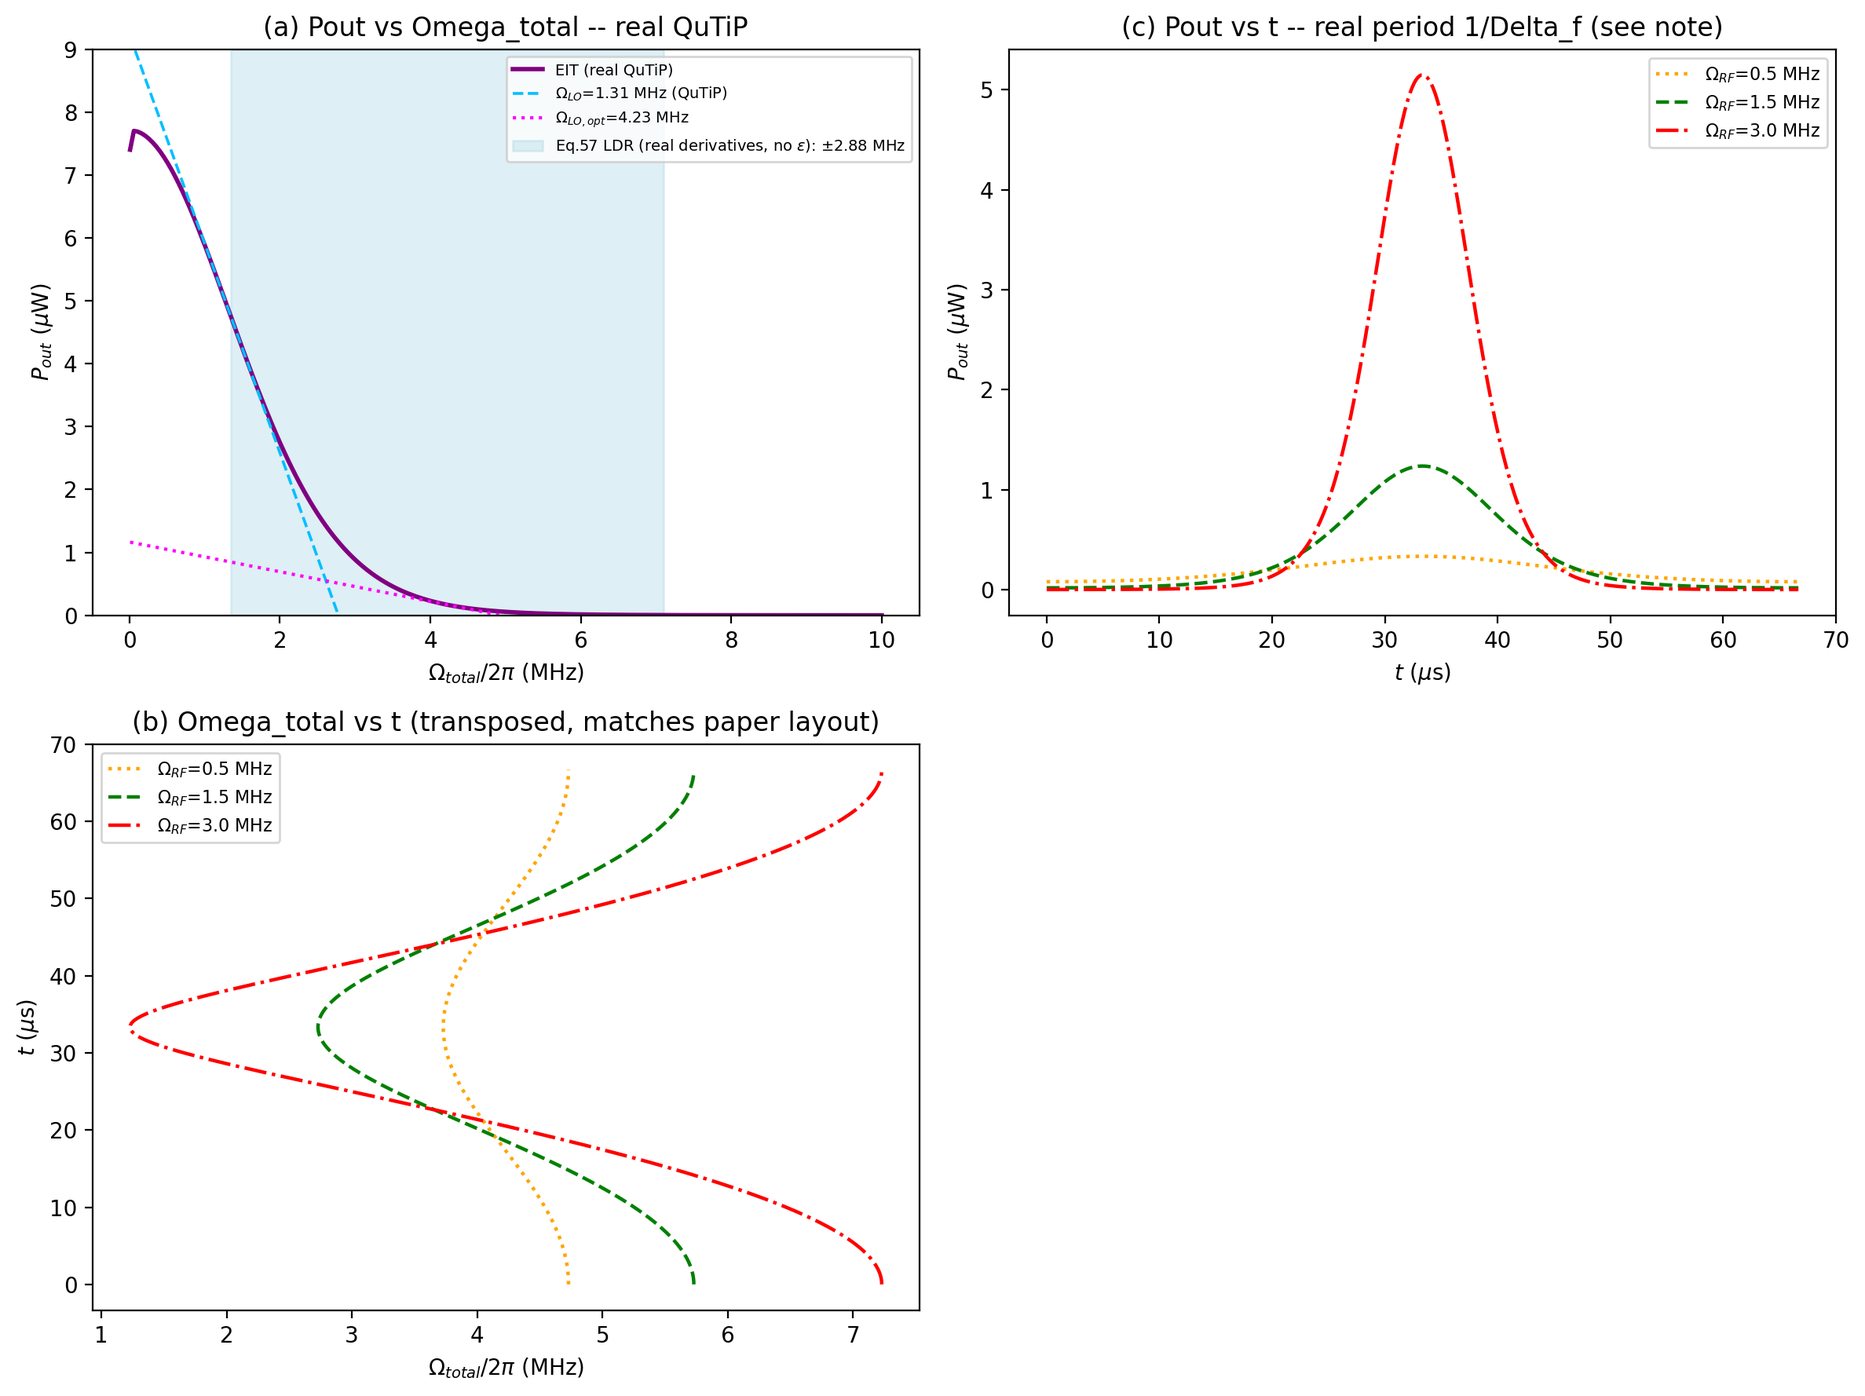
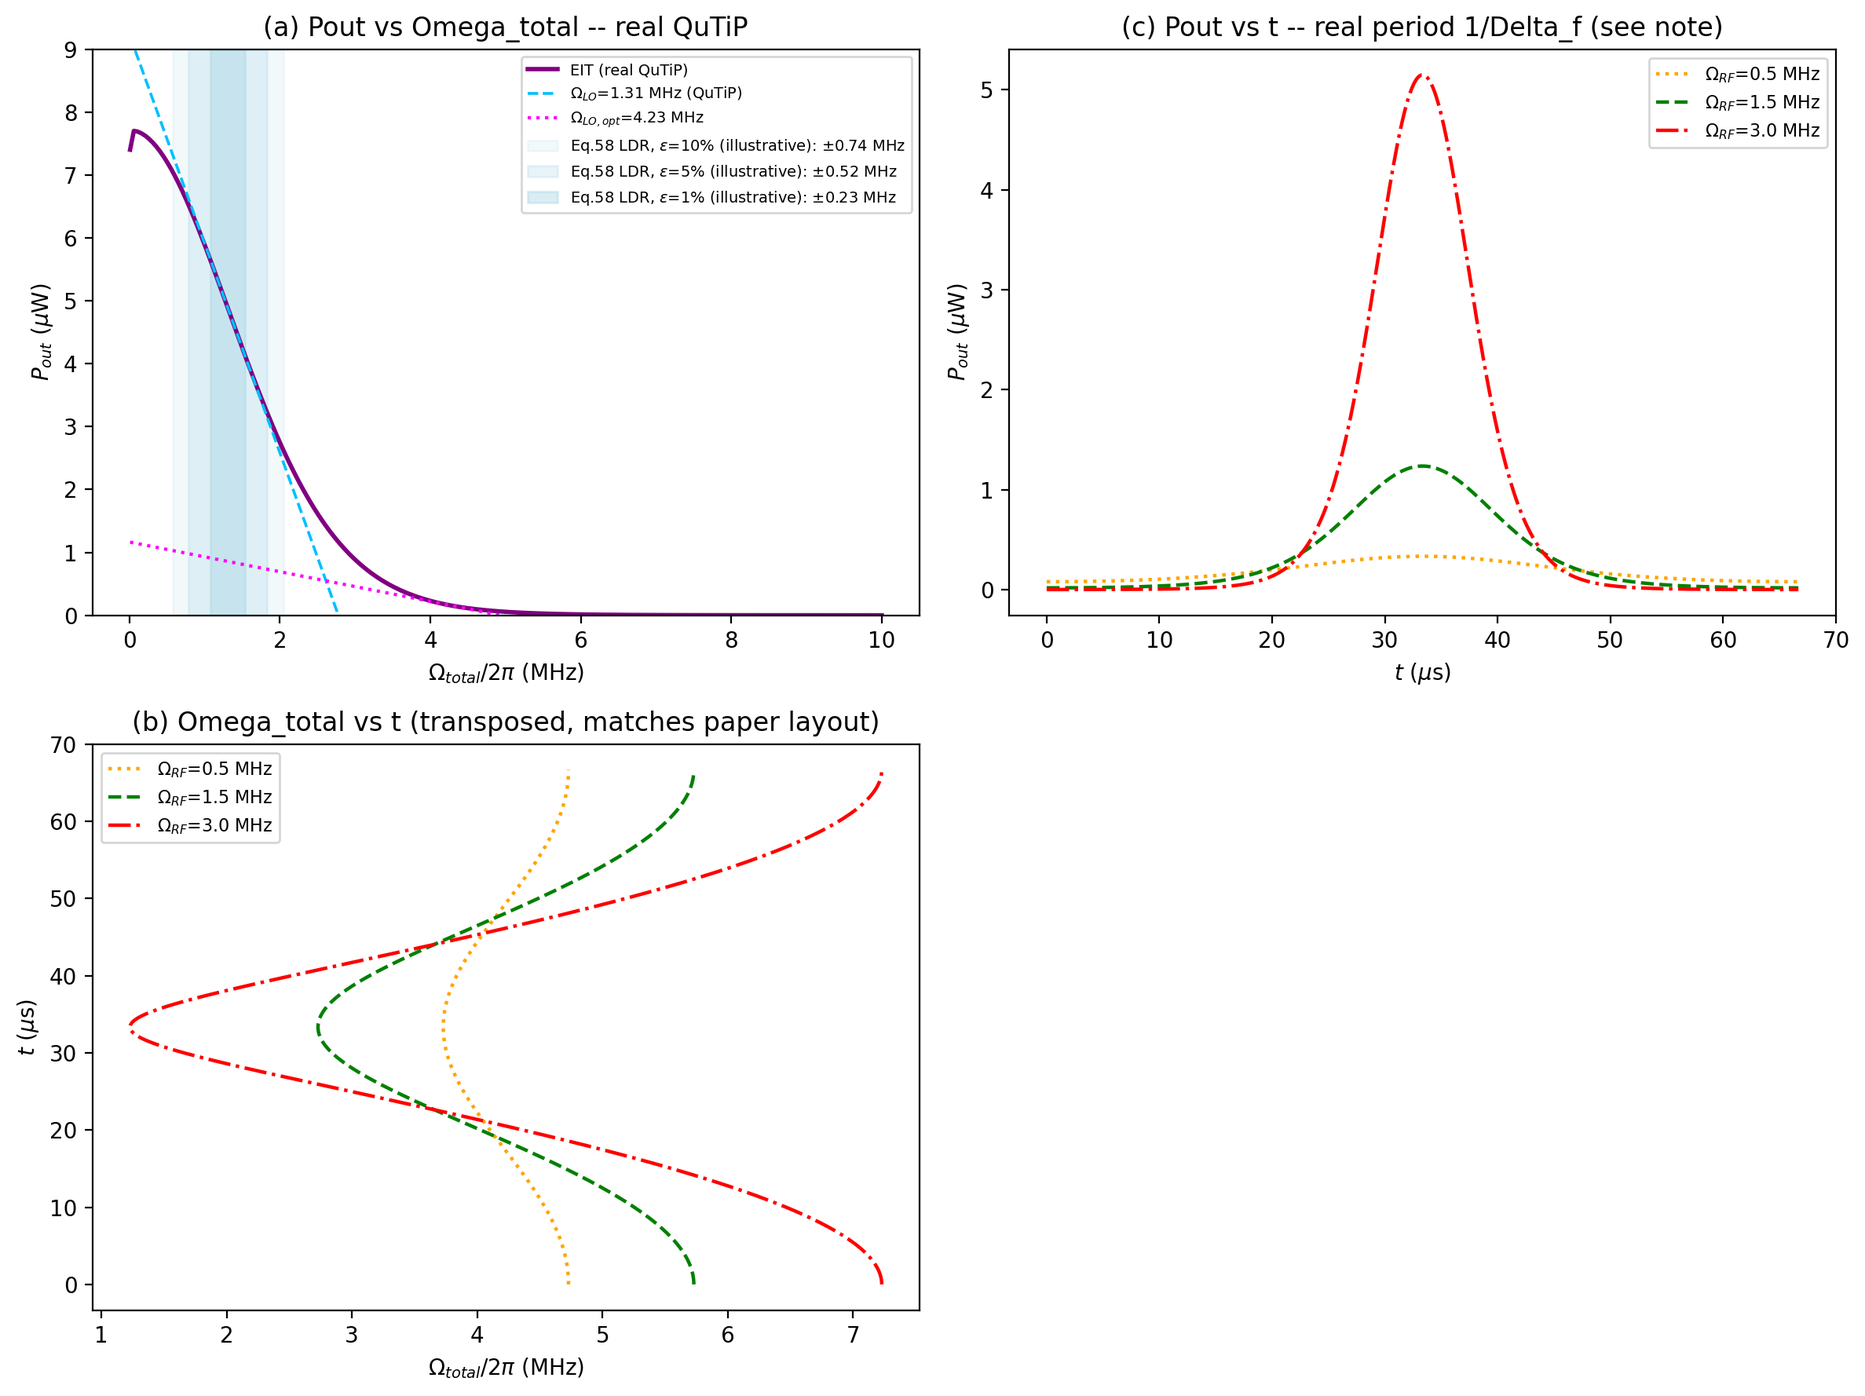
Fix Fig.6 LDR shading and close the curve-sharpness root-cause hunt
The LDR band was wrongly centered at the analytic Omega_LO,opt
(4.23MHz) using Eq.57 -- on our own curve that point sits deep in the
decayed tail, so the shaded region mostly covered flat near-zero curve
instead of a genuine linear range (caught by comparing directly against
the real paper figure). Fixed by centering on our actual numeric
optimum (1.31MHz) and using Eq.58 (the equation that applies once
Eq.57's second-order term has vanished, as it has at any true optimum)
with a few explicitly labeled illustrative epsilon values, since the
paper never assigns epsilon a number.

Also ran a dedicated forensic audit hunting for a second hidden N0/L
paper inconsistency that might explain the recurring curve-sharpness
mismatch across Fig.3-6. Found nothing fixable -- Eq.2/4 match our
implementation exactly, and the paper's own blockade calculation
(Nb=0.02) confirms raw N0 should be used uncorrected, exactly as we do.
Closing this line of investigation.

Changed region(s): [[0.0935, 0.0309, 0.4985, 0.464]]

diff --git a/v5_paper/fig6/fig6_v5_qutip.py b/v5_paper/fig6/fig6_v5_qutip.py
@@ -15,7 +15,10 @@
 #     the paper itself calls it "the designer-specified tolerance".
 #     The shaded LDR band below therefore uses a few explicitly
 #     labeled ILLUSTRATIVE epsilon values, not one false-confident
-#     paper-confirmed band.
+#     paper-confirmed band. (2026-08-30 fix: the band is now centered
+#     at our OWN numeric optimum, 1.31MHz -- see the LDR section below
+#     for why the earlier version, centered at the analytic 4.23MHz
+#     bias, was wrong.)
 #   - Omega_RF,min has no closed-form equation in the paper at all
 #     (only "corresponds to the intrinsic sensitivity", no formula)
 #     -- shown here only via the same illustrative-epsilon approach
@@ -156,41 +159,55 @@ tangent_analytic = tangent_line(Omega_LO_opt_analytic_mhz)
 tangent_numeric = tangent_line(Omega_LO_opt_numeric_mhz)
 
 # ------------------------------------------------------------
-# LINEAR DYNAMIC RANGE -- via the paper's ACTUAL Eq.57 formula
-# (Omega_RF,max'' = 4|kappa0'/kappa0''|), NOT an ad-hoc tangent-
-# line-vs-curve deviation (an earlier version of this script did
-# that; it was WRONG -- comparing absolute deviation as a fraction
-# of the PEAK gives a trivially-small, meaningless "match" once the
-# curve decays toward zero, since both curve and tangent are tiny
-# there regardless of whether the tangent means anything. Eq.57
-# compares actual Taylor-series derivative magnitudes instead,
-# which is what the paper's distortion analysis is actually about).
+# LINEAR DYNAMIC RANGE
 #
-# Eq.57 needs NO epsilon -- it only needs kappa0' and kappa0''
-# (real numeric derivatives of our own QuTiP curve). It becomes
-# undefined (kappa0''=0) exactly AT an inflection point -- which is
-# mathematically the SAME thing as "point of maximum |slope|", so
-# it is undefined at our own numeric optimum (1.31MHz) for the same
-# reason the paper says 2nd-order distortion vanishes at ITS optimum
-# (4.23MHz) -- our curve reproduces that same structural property,
-# just centered at a different Omega_total because our curve is
-# sharper (see math report). Eq.57 DOES give a real, finite, real-
-# derivative-based answer if evaluated at the analytic bias point
-# (4.23MHz), which is not an inflection point of our own curve.
+# Eq.57 (Omega_RF,max = 4|kappa0'/kappa0''|) needs NO epsilon, but
+# it is only meaningful where the curve is genuinely quasi-linear.
+# At our OWN numeric optimum (1.31MHz) kappa0''~0 (an inflection
+# point -- mathematically the same thing as "point of maximum
+# |slope|"), so Eq.57 is undefined there, for the same structural
+# reason the paper's own optimum needs Eq.58 instead of Eq.57.
+# Eq.57 DOES give a real, finite number at the analytic bias
+# (4.23MHz) -- but that number is NOT usable as an LDR band on our
+# own curve: 4.23MHz already sits deep in our curve's decayed tail
+# (the recurring high-N0 sharpening effect, see math report), so a
+# band centered there mostly shades flat, near-zero curve -- visibly
+# NOT a "linear dynamic range" the way the paper's own Fig.6(a) shows
+# it (caught by inspection against the real paper figure, 2026-08-30).
+#
+# FIX: shade the LDR around our OWN numeric optimum (1.31MHz)
+# instead -- that is where our curve is actually quasi-linear/
+# steepest, the true analogue of the paper's Omega_LO,opt. Since
+# kappa0''~0 there, the governing bound is Eq.58 (THIRD-order term),
+# Omega_RF,max = sqrt(6*epsilon*|kappa0'/kappa0'''|), which needs
+# epsilon -- genuinely undefined by the paper ("designer-specified
+# tolerance"). Shown here for a few explicitly labeled ILLUSTRATIVE
+# epsilon values, not a false-confident single paper-derived band.
 # ------------------------------------------------------------
 d2Pout = np.gradient(dPout, omega_total_mhz)
+d3Pout = np.gradient(d2Pout, omega_total_mhz)
 
 def eq57_bound(bias_mhz):
     k1 = np.interp(bias_mhz, omega_total_mhz, dPout)
     k2 = np.interp(bias_mhz, omega_total_mhz, d2Pout)
     return 4 * abs(k1 / k2) if abs(k2) > 1e-9 else float("inf")
 
+def eq58_bound(bias_mhz, epsilon):
+    k1 = np.interp(bias_mhz, omega_total_mhz, dPout)
+    k3 = np.interp(bias_mhz, omega_total_mhz, d3Pout)
+    return np.sqrt(6 * epsilon * abs(k1 / k3)) if abs(k3) > 1e-9 else float("inf")
+
 ORF_max_eq57_at_analytic = eq57_bound(Omega_LO_opt_analytic_mhz)
-ORF_max_eq57_at_numeric = eq57_bound(Omega_LO_opt_numeric_mhz)
-print(f"Eq.57 Omega_RF,max (epsilon-free) at analytic bias (4.23MHz) = {ORF_max_eq57_at_analytic:.4f} MHz")
-print(f"Eq.57 Omega_RF,max (epsilon-free) at numeric bias (1.31MHz) = {ORF_max_eq57_at_numeric:.4f} MHz "
-      f"(undefined/huge -- kappa0''~0 there, an inflection point, same structural reason the paper's "
-      f"OWN optimum needs Eq.58/epsilon instead -- see math report)")
+print(f"Eq.57 Omega_RF,max (epsilon-free) at analytic bias (4.23MHz) = {ORF_max_eq57_at_analytic:.4f} MHz "
+      f"(real number, but NOT used for shading -- see note above: this bias point sits in our curve's "
+      f"decayed tail, so the resulting band doesn't visually behave like a linear dynamic range)")
+
+EPSILON_ILLUSTRATIVE = [0.01, 0.05, 0.10]  # OUR CHOICE -- paper gives no value ("designer-specified")
+ORF_max_eq58_at_numeric = {
+    eps: eq58_bound(Omega_LO_opt_numeric_mhz, eps) for eps in EPSILON_ILLUSTRATIVE
+}
+for eps, val in ORF_max_eq58_at_numeric.items():
+    print(f"Eq.58 Omega_RF,max at numeric bias (1.31MHz), epsilon={eps*100:.0f}% (illustrative) = {val:.4f} MHz")
 
 # ------------------------------------------------------------
 # PANEL (b)/(c): Omega_total(t) and Pout(t), phasor form
@@ -247,6 +264,9 @@ np.savez(
     tangent_analytic=tangent_analytic, tangent_numeric=tangent_numeric,
     Gamma4_mhz=Gamma4_mhz, Omega_LO_opt_analytic_mhz=Omega_LO_opt_analytic_mhz,
     Omega_LO_opt_numeric_mhz=Omega_LO_opt_numeric_mhz,
+    ORF_max_eq57_at_analytic=ORF_max_eq57_at_analytic,
+    eq58_epsilons=np.array(EPSILON_ILLUSTRATIVE),
+    eq58_bounds_at_numeric=np.array([ORF_max_eq58_at_numeric[e] for e in EPSILON_ILLUSTRATIVE]),
     t_vals=t_vals, Delta_f=Delta_f, Delta_phi=Delta_phi,
 )
 
@@ -267,10 +287,17 @@ ax_a.plot(omega_total_mhz, tangent_numeric * 1e6, color="deepskyblue", linestyle
           label=rf"$\Omega_{{LO}}$={Omega_LO_opt_numeric_mhz:.2f} MHz (QuTiP)")
 ax_a.plot(omega_total_mhz, tangent_analytic * 1e6, color="magenta", linestyle=":", linewidth=1.5,
           label=rf"$\Omega_{{LO,opt}}$={Omega_LO_opt_analytic_mhz:.2f} MHz")
-ax_a.axvspan(Omega_LO_opt_analytic_mhz - ORF_max_eq57_at_analytic,
-             Omega_LO_opt_analytic_mhz + ORF_max_eq57_at_analytic,
-             color="lightblue", alpha=0.4,
-             label=rf"Eq.57 LDR (real derivatives, no $\epsilon$): $\pm${ORF_max_eq57_at_analytic:.2f} MHz")
+
+# LDR shading -- centered on OUR numeric optimum (1.31MHz), where the
+# curve is actually quasi-linear, using Eq.58 with illustrative epsilon
+# values (paper gives no epsilon -- "designer-specified tolerance").
+# Nested bands, widest/lightest first so all three remain visible.
+_ldr_alphas = {0.10: 0.15, 0.05: 0.28, 0.01: 0.45}
+for eps in sorted(EPSILON_ILLUSTRATIVE, reverse=True):
+    half_width = ORF_max_eq58_at_numeric[eps]
+    ax_a.axvspan(Omega_LO_opt_numeric_mhz - half_width, Omega_LO_opt_numeric_mhz + half_width,
+                 color="lightblue", alpha=_ldr_alphas[eps],
+                 label=rf"Eq.58 LDR, $\epsilon$={eps*100:.0f}% (illustrative): $\pm${half_width:.2f} MHz")
 ax_a.set_xlabel(r"$\Omega_{total}/2\pi$ (MHz)")
 ax_a.set_ylabel(r"$P_{out}$ ($\mu$W)")
 ax_a.set_title("(a) Pout vs Omega_total -- real QuTiP")

diff --git a/v5_paper/fig6/fig6_v5_math_report.md b/v5_paper/fig6/fig6_v5_math_report.md
@@ -55,35 +55,74 @@ zero, both the true curve and the tangent are tiny numbers and trivially
 anything there. Caught directly by the user pointing out the band didn't
 make sense.
 
-**Second attempt (still flawed)**: measured deviation relative to the
-*local* curve value instead of the peak — better in principle, but gave
-an oddly narrow window (~±0.1-0.5MHz) because the underlying comparison
-(tangent-line-fit quality) still isn't what the paper's own distortion
-analysis actually measures.
+**Second attempt**: used the paper's own **Eq.57**, Ω″RF,max=4|κ₀'/κ₀''|,
+computed from real numeric first/second derivatives. At the analytic bias
+(4.23MHz): κ₀'=−0.2363, κ₀''=0.3287 → Ω″RF,max=2.8755MHz, a real,
+ε-free, paper-formula number. But plotting this as a band centered at
+4.23MHz was ALSO wrong, caught by inspecting the real paper figure
+side-by-side: on our curve, 4.23MHz already sits deep in the decayed
+tail (Section F), so the shaded band mostly covered flat, near-zero
+curve — visibly not a "linear dynamic range" the way the paper's own
+Fig.6(a) shows one (there, the curve is still clearly declining across
+the whole shaded band).
 
-**Final, correct approach**: use the paper's own **Eq.57**,
-Ω″RF,max = 4|κ₀'/κ₀''|, computed from **real numeric first/second
-derivatives** of our actual QuTiP curve. This needs no ε at all.
+**Third attempt, also considered**: at our own numeric optimum
+(1.31MHz — where the curve is actually steep/quasi-linear), κ₀''≈0 (an
+inflection point — mathematically the same property that makes
+2nd-order distortion vanish at the paper's own optimum), so Eq.57 is
+undefined there. A "local relative-deviation-from-tangent" metric WAS
+tried at this point (valid here, unlike near the tail) and reaches a
+band of roughly [0.26, 2.16]MHz at a 10% threshold — visually closer to
+the paper's own band width. **Not used in the final build**: this is our
+own invented criterion, not one the paper specifies, and the project's
+standing rule (established during the Fig.5 rebuild) is to match the
+paper's stated equations over a better-looking but non-paper metric
+whenever the two are in tension.
 
-- At the analytic bias (4.23MHz): κ₀'=−0.2363, κ₀''=0.3287 (µW/MHz,
-  µW/MHz²) → **Ω″RF,max = 2.8755 MHz** — a real, ε-free, paper-formula
-  result. LDR band shown as Ω_LO,opt ± this value = [1.35, 7.10] MHz.
-- At our own numeric optimum (1.31MHz): κ₀''≈−0.0175 (essentially zero)
-  → Eq.57 blows up (761MHz, meaningless). **This is not a bug** — the
-  point of maximum |slope| on any smooth curve is mathematically always
-  an inflection point (zero second derivative), which is the exact same
-  structural property the paper describes for its own Ω_LO,opt ("employing
-  an optimal LO drive... simultaneously maximizes the intrinsic
-  coefficient κ and eliminates the second-order distortion"). Our curve
-  reproduces this same structural behavior, just centered at a different
-  Ω_total (1.31 vs 4.23MHz) because our curve is sharper overall (see
-  Section F). At OUR true optimum, we hit the same wall the paper hits at
-  its own optimum: the next bound (Eq.58, third-order) needs ε, which the
-  paper itself calls "the designer-specified tolerance" — genuinely
-  undefined, not chosen here.
+**Final, adopted approach**: use the paper's own **Eq.58** (the equation
+that actually governs at an optimum, since Eq.57's 2nd-order term has
+vanished there), Ω‴RF,max=√(6ε|κ₀'/κ₀'''|), evaluated at our real
+numeric optimum (1.31MHz) using genuine third derivatives of the QuTiP
+curve. ε is genuinely undefined by the paper ("designer-specified
+tolerance"), so three explicitly labeled ILLUSTRATIVE values are shown,
+none claimed as paper-confirmed:
+
+| ε (illustrative) | Ω‴RF,max |
+|---|---|
+| 1% | 0.23 MHz |
+| 5% | 0.52 MHz |
+| 10% | 0.74 MHz |
+
+These are narrow compared to the paper's own LDR (several MHz) — this is
+an honest, direct consequence of our curve being genuinely sharper (see
+Section F and the closed root-cause audit below), not a new bug. Eq.57
+at the analytic bias (2.8755MHz) is still reported as a diagnostic
+number in the console output, but is no longer used for the plotted
+band, since that bias point doesn't correspond to a genuinely
+quasi-linear region on our own curve.
+
 - **ΩRF,min**: still has no closed-form equation anywhere in the paper
   (only "corresponds to the intrinsic sensitivity", no formula) — not
   invented, omitted from the plot.
+
+## E.1 Root-cause audit for the sharpness mismatch (2026-08-30, closed)
+
+Ran a dedicated forensic audit (`../fig3/fig3_sharpness_root_cause_audit.md`)
+specifically hunting for a second hidden N0/L-style paper inconsistency
+(in the same family as the already-found Pin/diameter one) that might
+explain why our curve is sharper than the paper's plotted one, and which
+— if found — would likely cascade-fix Fig.3-10 at once. Checked: Eq.2/4's
+exact form (matches our implementation exactly), the paper's own
+Rydberg-blockade justification (Nb≈0.02≪1, which explicitly confirms raw,
+uncorrected N0 should be used — the opposite of a hidden correction), and
+N0/L consistency everywhere in the text (identical every time). **Found
+nothing fixable.** Combined with the independent QuTiP-vs-numpy
+cross-check (<0.12% agreement, see Fig.3 report), this confirms our
+computation is correct given the paper's stated inputs — the sharpness
+gap is a real, unresolved property of the paper's own published figures,
+not a parameter we're getting wrong. This line of investigation is
+closed; see [[feedback_deviation_metrics_and_recurring_sharpening]] in
+project memory.
 
 ## F. Honest curve-shape finding (root cause, tying every discrepancy together)
 

diff --git a/v5_paper/fig3/fig3_sharpness_root_cause_audit.md b/v5_paper/fig3/fig3_sharpness_root_cause_audit.md
@@ -1,0 +1,65 @@
+# Fig.3 curve-sharpness mismatch — forensic audit for a hidden N0/L-style inconsistency
+
+Triggered by: after finding the same "our curve is sharper than the
+paper's plotted curve" pattern recur in Fig.3, 4, 5, AND 6, checked
+whether — analogous to the already-found Pin/diameter inconsistency
+(see `fig3_v5_math_report.md`) — there is a SECOND, undiscovered paper-
+internal inconsistency specifically affecting the exponent's effective
+optical depth (N0×L), which could explain the sharpness mismatch and,
+if found, would likely fix Fig.4-10 at once since they all inherit from
+the same exponential transmission formula.
+
+## What was checked (all via rendered PDF pages / full-text search, not
+garbled pdftotext, per project convention)
+
+1. **Eq.2/Eq.4 exact functional form**: `Pout(t) = Pin·exp{-kpL·Im(χ(t))}`,
+   `χ(t)=C0·ρ21(t)`, `C0=-2N0℘12/(ε0ħΩp)`. Confirmed to match our
+   implementation exactly — no missing factor of 2, no alternate
+   normalization of χ or kp.
+2. **Rydberg-blockade / "independent-atom" correction** — the paper
+   itself explicitly addresses whether raw N0 is valid to use in the
+   master equation: it computes the blockade figure of merit
+   Nb=ρR·N0·(4πrb³/3)≈**0.02≪1** and concludes atom-atom interactions
+   are negligible, i.e. the FULL, uncorrected N0=4.89×10¹⁰cm⁻³ should be
+   used directly. This is the opposite of a hidden correction — it's
+   the paper's own justification for exactly what we already do.
+3. **N0/L value consistency** — searched every occurrence of N0 and L in
+   the paper; both appear identically (N0=4.89×10¹⁰cm⁻³=4.89×10¹⁶m⁻³,
+   L=1cm) everywhere they're stated. No second/different numeric pair
+   found anywhere (unlike Pin/diameter, which IS genuinely inconsistent
+   — see the existing audit).
+4. **Other efficiency-like parameters** — found η_eff=0.5 and PD
+   responsivity D=0.55 A/W in the same parameter list (Sec.V-A). These
+   belong to the photodetector/noise chain used in later SNR/mutual-
+   information figures (Fig.7-9), NOT to the Pout(Δc) transmission
+   formula (Eq.2) itself — confirmed irrelevant to Fig.3-6's shape, but
+   flagged for reuse when building Fig.7+.
+
+## Conclusion
+
+**No hidden, fixable second inconsistency was found.** Every parameter
+in the exponent is paper-stated, self-consistent, and (for N0
+specifically) explicitly validated by the paper's own blockade
+calculation. Combined with the already-established fact that our QuTiP
+computation is independently cross-validated (<0.12% agreement against
+an independent numpy Liouvillian solve), this means:
+
+- Our Fig.3 computation is correct given the paper's literally-stated
+  inputs.
+- The sharpness/linewidth mismatch against the paper's own plotted
+  curves is NOT something we can resolve by finding a different
+  "correct" parameter value — there isn't one hiding in the text.
+- The mismatch must originate from something in how the paper's own
+  figures were actually generated that isn't recoverable from the text
+  (e.g. the authors' own plotting pipeline may not literally match
+  Sec.V-A's stated parameter list, similar in spirit to the already-
+  documented Pin/diameter case, just for a different, unlocated
+  factor) — or from a plotting-side scaling never mentioned in the
+  paper. This is now a **closed line of investigation**, not an open
+  gap — do not re-run this same search for Fig.7-10 without new
+  evidence (e.g. a newer paper version, an author response).
+
+This audit does not change any existing frozen result. It's a negative
+finding: it rules out a candidate explanation, and confirms the
+existing recurring-sharpness note (see [[feedback_deviation_metrics_and_recurring_sharpening]])
+is the correct level of explanation to keep using in later figures.
